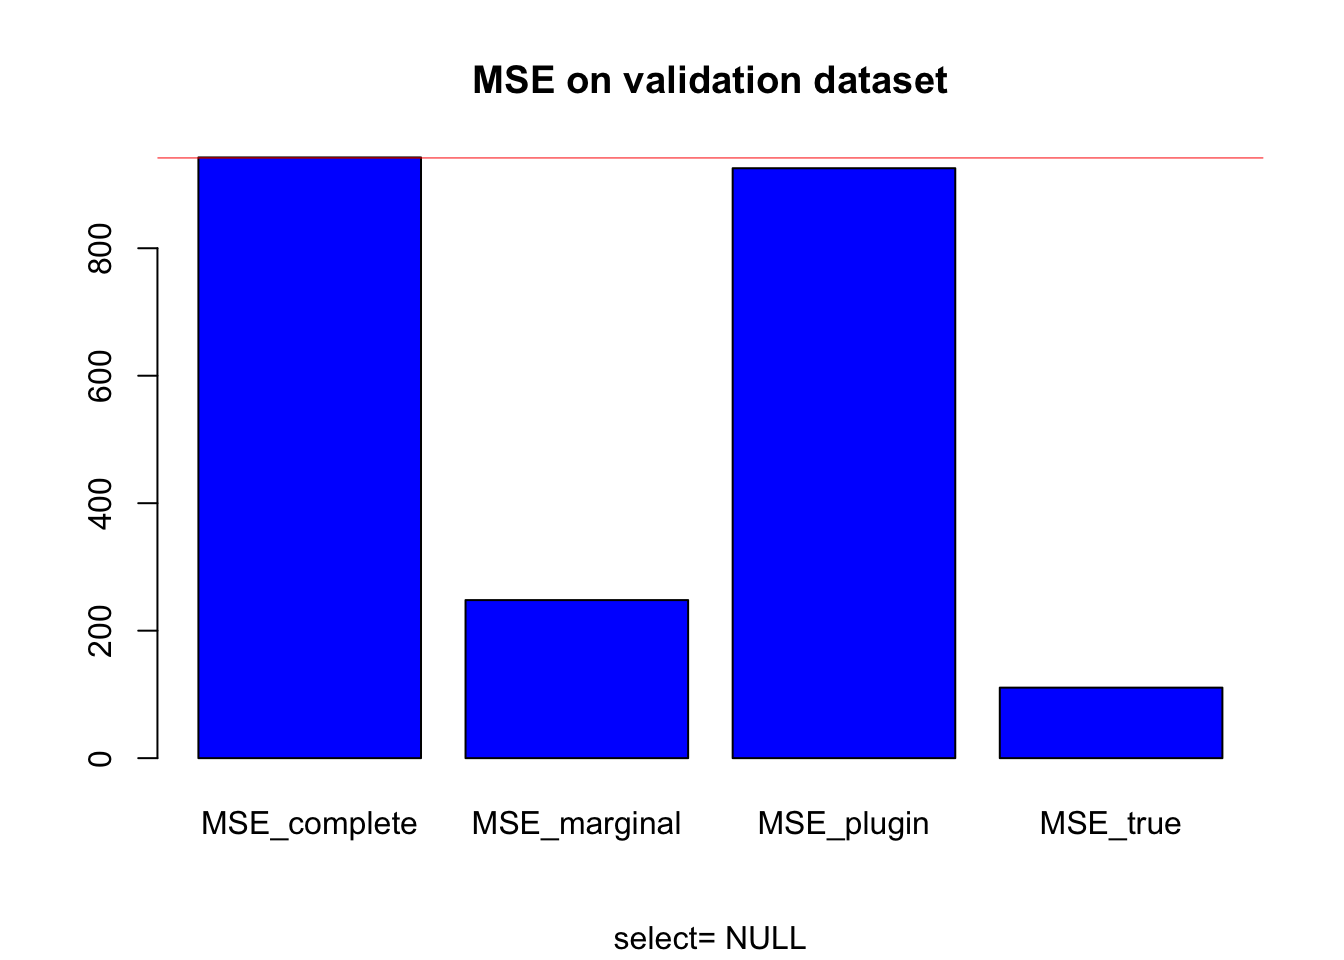
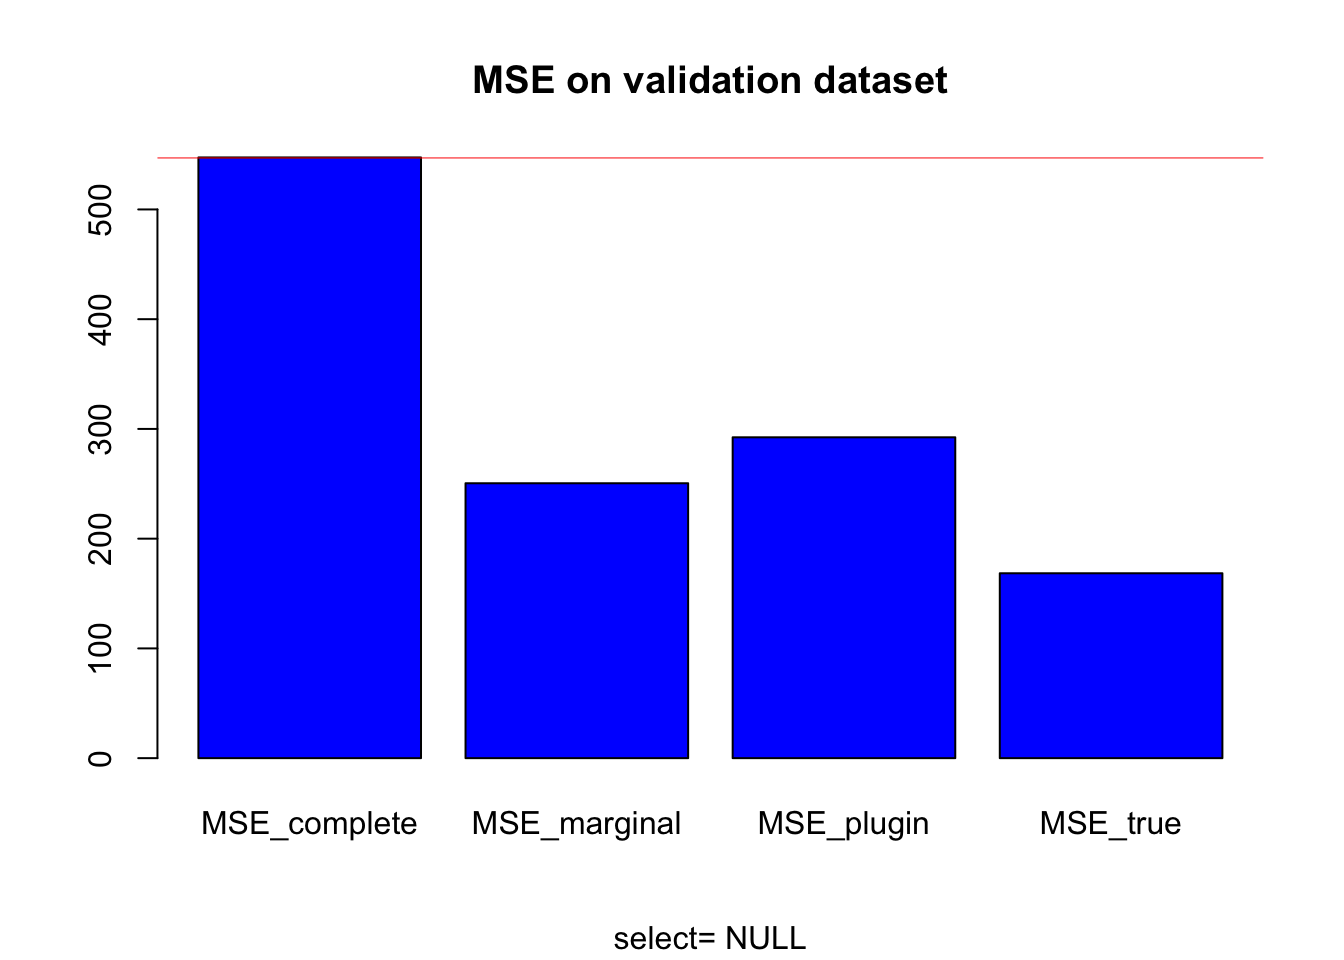
Built site for CorReg: 1.2.19@ea8ea1b

diff --git a/articles/CorReg.html b/articles/CorReg.html
@@ -108,16 +108,16 @@
 <p>We also get an adjacency matrix Z that describes the Directed Acyclic Graph of the links between the covariates. See <a href="https://en.wikipedia.org/wiki/Adjacency_matrix" class="uri">https://en.wikipedia.org/wiki/Adjacency_matrix</a> for more informations on adjacency matrices.</p>
 <div class="sourceCode" id="cb4"><html><body><pre class="r"><span class="no">TrueZ</span></pre></body></html></div>
 <pre><code>##       [,1] [,2] [,3] [,4] [,5] [,6] [,7] [,8] [,9] [,10]
-##  [1,]    0    0    0    1    0    0    1    1    0     0
-##  [2,]    0    0    0    1    1    0    0    0    0     0
-##  [3,]    0    0    0    0    0    0    0    1    0     0
-##  [4,]    0    0    0    0    0    0    0    0    0     0
-##  [5,]    0    0    0    0    0    0    0    0    0     0
-##  [6,]    0    0    0    0    1    0    1    0    0     0
+##  [1,]    0    0    1    0    0    0    0    1    0     0
+##  [2,]    0    0    0    0    0    0    0    0    0     0
+##  [3,]    0    0    0    0    0    0    0    0    0     0
+##  [4,]    0    1    1    0    0    0    0    0    0     0
+##  [5,]    0    1    0    0    0    1    0    1    0     0
+##  [6,]    0    0    0    0    0    0    0    0    0     0
 ##  [7,]    0    0    0    0    0    0    0    0    0     0
 ##  [8,]    0    0    0    0    0    0    0    0    0     0
-##  [9,]    0    0    0    0    1    0    1    0    0     0
-## [10,]    0    0    0    1    0    0    0    1    0     0</code></pre>
+##  [9,]    0    1    1    0    0    1    0    0    0     0
+## [10,]    0    0    0    0    0    1    0    1    0     0</code></pre>
 <div class="sourceCode" id="cb6"><html><body><pre class="r"><span class="co"># TrueZ[i,j]==1 means that X[,j] linearly depends on X[,i]</span></pre></body></html></div>
 <p>We will try to find this structure (in real life we don’t know the true structure).</p>
 </div>
@@ -153,9 +153,9 @@
 <span class="no">bicopt_vect</span> <span class="kw">&lt;-</span> <span class="fu"><a href="../reference/BicZ.html">BicZ</a></span>(<span class="kw">X</span> <span class="kw">=</span> <span class="no">X_appr</span>, <span class="kw">Z</span> <span class="kw">=</span> <span class="no">hatZ</span>, <span class="kw">Bic_null_vect</span> <span class="kw">=</span> <span class="no">Bic_null_vect</span>)
 <span class="no">bicopt_True</span> <span class="kw">&lt;-</span> <span class="fu"><a href="../reference/BicZ.html">BicZ</a></span>(<span class="kw">X</span> <span class="kw">=</span> <span class="no">X_appr</span>, <span class="kw">Z</span> <span class="kw">=</span> <span class="no">TrueZ</span>, <span class="kw">Bic_null_vect</span> <span class="kw">=</span> <span class="no">Bic_null_vect</span>)
 <span class="fu"><a href="https://rdrr.io/r/base/sum.html">sum</a></span>(<span class="no">bicopt_vect</span>)</pre></body></html></div>
-<pre><code>## [1] 288.7975</code></pre>
+<pre><code>## [1] 296.1449</code></pre>
 <div class="sourceCode" id="cb11"><html><body><pre class="r"><span class="fu"><a href="https://rdrr.io/r/base/sum.html">sum</a></span>(<span class="no">bicopt_True</span>)</pre></body></html></div>
-<pre><code>## [1] 296.1501</code></pre>
+<pre><code>## [1] 297.3172</code></pre>
 <p>And in terms of structure:</p>
 <div class="sourceCode" id="cb13"><html><body><pre class="r"><span class="co"># Structure comparison</span>
 <span class="no">compZ</span> <span class="kw">&lt;-</span> <span class="fu"><a href="../reference/compare_struct.html">compare_struct</a></span>(<span class="kw">trueZ</span> <span class="kw">=</span> <span class="no">TrueZ</span>, <span class="kw">Zalgo</span> <span class="kw">=</span> <span class="no">hatZ</span>) <span class="co"># qualitative comparison</span>
@@ -164,113 +164,100 @@
 ## [1] 0.9166667
 ## 
 ## $ratio_true0
-## [1] 0.9204545
+## [1] 1
 ## 
 ## $true1
 ## [1] 11
 ## 
 ## $false1
-## [1] 7
+## [1] 0
 ## 
 ## $false0
 ## [1] 1
 ## 
 ## $deltadr
-## [1] -1
+## [1] 0
 ## 
 ## $true_left
 ## [1] 4
 ## 
 ## $false_left
-## [1] 1</code></pre>
+## [1] 0</code></pre>
 <p>Then we have a look on the sub-regressions themselves. Each item of the list represents a subregression.</p>
 <p>First element is the R-square.Second element is the variable that is regressed by others (if no names provided it gives the position of the variable in the dataset).</p>
 <p>Then comes the list of the explicative variables in the subgression and the associated coefficients (in the first column). The <code>readZ</code> function allows to list them by relevance.</p>
 <div class="sourceCode" id="cb15"><html><body><pre class="r"><span class="co"># interpretation of found and true structure ordered by increasing R2</span>
 <span class="fu"><a href="../reference/readZ.html">readZ</a></span>(<span class="kw">Z</span> <span class="kw">=</span> <span class="no">hatZ</span>, <span class="kw">crit</span> <span class="kw">=</span> <span class="st">"R2"</span>, <span class="kw">X</span> <span class="kw">=</span> <span class="no">X_appr</span>, <span class="kw">output</span> <span class="kw">=</span> <span class="st">"all"</span>, <span class="kw">order</span> <span class="kw">=</span> <span class="fl">1</span>) <span class="co"># &lt;NA&gt;line : name of subregressed covariate</span></pre></body></html></div>
 <pre><code>## [[1]]
-##               coefs       var
-## 1 0.567322744199706        R2
-## 2              &lt;NA&gt;         3
-## 3 0.435893866120974 intercept
-## 4 0.804716896679571         2
-## 5 0.414652362504844         6
-## 6 0.661246982971935         9
+##                coefs       var
+## 1  0.707024860979052        R2
+## 2               &lt;NA&gt;         6
+## 3 -0.749238310422486 intercept
+## 4   0.25410134590796         5
+## 5  0.377591704623786        10
 ## 
 ## [[2]]
 ##                coefs       var
-## 1  0.872482054895899        R2
-## 2               &lt;NA&gt;         5
-## 3  0.829264126456245 intercept
-## 4  -0.34899316718634         2
-## 5 -0.219694340470397         6
-## 6 -0.190260550232461         9
+## 1  0.801825284764386        R2
+## 2               &lt;NA&gt;         8
+## 3  0.672630670457708 intercept
+## 4  0.431038480894904         1
+## 5 -0.324254834137574         5
+## 6 -0.163087384095184        10
 ## 
 ## [[3]]
 ##                coefs       var
-## 1  0.910543601152018        R2
-## 2               &lt;NA&gt;         7
-## 3 -0.951033061919844 intercept
-## 4 -0.248001131274265         1
-## 5  0.220485173061672         6
-## 6 -0.190907029430882         9
+## 1  0.937733913698371        R2
+## 2               &lt;NA&gt;         3
+## 3 -0.744276505827456 intercept
+## 4 -0.474645555258217         1
+## 5 -0.389151196723414         4
+## 6   -0.4737220041433         9
 ## 
 ## [[4]]
 ##                coefs       var
-## 1   0.92147013820383        R2
-## 2               &lt;NA&gt;         8
-## 3  -1.00266635432194 intercept
-## 4 -0.205292429904384         1
-## 5  -0.17202654528121         2
-## 6 -0.109216169107915         6
-## 7 -0.223264948303337         9
-## 8 -0.329321486134212        10
-## 
-## [[5]]
-##                coefs       var
-## 1  0.948220719212576        R2
-## 2               &lt;NA&gt;         4
-## 3 -0.830425609099564 intercept
-## 4  -0.19204326535837         1
-## 5 -0.478773556136541         2
-## 6 0.0798765750199434         9
-## 7 -0.270517698797826        10</code></pre>
+## 1  0.954964818929163        R2
+## 2               &lt;NA&gt;         2
+## 3 -0.845145072340077 intercept
+## 4   0.32377945669726         4
+## 5 -0.357855814253986         5
+## 6  0.447564045039641         9</code></pre>
 <div class="sourceCode" id="cb17"><html><body><pre class="r"><span class="fu"><a href="../reference/readZ.html">readZ</a></span>(<span class="kw">Z</span> <span class="kw">=</span> <span class="no">TrueZ</span>, <span class="kw">crit</span> <span class="kw">=</span> <span class="st">"R2"</span>, <span class="kw">X</span> <span class="kw">=</span> <span class="no">X_appr</span>, <span class="kw">output</span> <span class="kw">=</span> <span class="st">"all"</span>, <span class="kw">order</span> <span class="kw">=</span> <span class="fl">1</span>) <span class="co"># &lt;NA&gt;line : name of subregressed covariate</span></pre></body></html></div>
 <pre><code>## [[1]]
 ##                coefs       var
-## 1  0.872482054895899        R2
-## 2               &lt;NA&gt;         5
-## 3  0.829264126456245 intercept
-## 4  -0.34899316718634         2
-## 5 -0.219694340470397         6
-## 6 -0.190260550232461         9
+## 1  0.713596948110685        R2
+## 2               &lt;NA&gt;         6
+## 3 -0.758961646597799 intercept
+## 4  0.350066580386525         5
+## 5  0.129092235555786         9
+## 6  0.407171066398935        10
 ## 
 ## [[2]]
 ##                coefs       var
-## 1  0.910543601152018        R2
-## 2               &lt;NA&gt;         7
-## 3 -0.951033061919844 intercept
-## 4 -0.248001131274265         1
-## 5  0.220485173061672         6
-## 6 -0.190907029430882         9
+## 1  0.801825284764386        R2
+## 2               &lt;NA&gt;         8
+## 3  0.672630670457708 intercept
+## 4  0.431038480894904         1
+## 5 -0.324254834137574         5
+## 6 -0.163087384095184        10
 ## 
 ## [[3]]
 ##                coefs       var
-## 1  0.912431818391348        R2
-## 2               &lt;NA&gt;         8
-## 3 -0.921462709456143 intercept
-## 4 -0.179653221894149         1
-## 5 -0.193221862801228         3
-## 6 -0.329831867551059        10
+## 1  0.937733913698371        R2
+## 2               &lt;NA&gt;         3
+## 3 -0.744276505827456 intercept
+## 4 -0.474645555258217         1
+## 5 -0.389151196723414         4
+## 6   -0.4737220041433         9
 ## 
 ## [[4]]
 ##                coefs       var
-## 1  0.944615432544629        R2
-## 2               &lt;NA&gt;         4
-## 3 -0.820532260931932 intercept
-## 4 -0.209324901533773         1
-## 5 -0.504820270347851         2
-## 6 -0.271566622251727        10</code></pre>
+## 1  0.954964818929163        R2
+## 2               &lt;NA&gt;         2
+## 3 -0.845145072340077 intercept
+## 4   0.32377945669726         4
+## 5 -0.357855814253986         5
+## 6  0.447564045039641         9</code></pre>
 <p>We can finally use the correg function to make linear regression using the sub-regression structure learnt above. We get three models :</p>
 <ul>
 <li>Complete model : without the sub-regression structure</li>
@@ -294,7 +281,7 @@
 <span class="no">MSE</span> <span class="kw">&lt;-</span> <span class="fu"><a href="https://rdrr.io/r/base/data.frame.html">data.frame</a></span>(<span class="no">MSE_complete</span>, <span class="no">MSE_marginal</span>, <span class="no">MSE_plugin</span>, <span class="no">MSE_true</span>)
 <span class="no">MSE</span> <span class="co"># estimated structure</span></pre></body></html></div>
 <pre><code>##   MSE_complete MSE_marginal MSE_plugin MSE_true
-## 1     942.4538     247.9808   925.5327 110.6313</code></pre>
+## 1     547.3818      250.496   292.3663 168.4759</code></pre>
 <div class="sourceCode" id="cb23"><html><body><pre class="r"><span class="fu"><a href="https://rdrr.io/r/graphics/barplot.html">barplot</a></span>(<span class="fu"><a href="https://rdrr.io/r/base/matrix.html">as.matrix</a></span>(<span class="no">MSE</span>), <span class="kw">main</span> <span class="kw">=</span> <span class="st">"MSE on validation dataset"</span>, <span class="kw">sub</span> <span class="kw">=</span> <span class="fu"><a href="https://rdrr.io/r/base/paste.html">paste</a></span>(<span class="st">"select="</span>, <span class="no">select</span>), <span class="kw">col</span> <span class="kw">=</span> <span class="st">"blue"</span>)
 <span class="fu"><a href="https://rdrr.io/r/graphics/abline.html">abline</a></span>(<span class="kw">h</span> <span class="kw">=</span> <span class="no">MSE_complete</span>, <span class="kw">col</span> <span class="kw">=</span> <span class="st">"red"</span>)</pre></body></html></div>
 <p><img src="CorReg_files/figure-html/unnamed-chunk-10-1.png" width="672" style="display: block; margin: auto;"></p>
